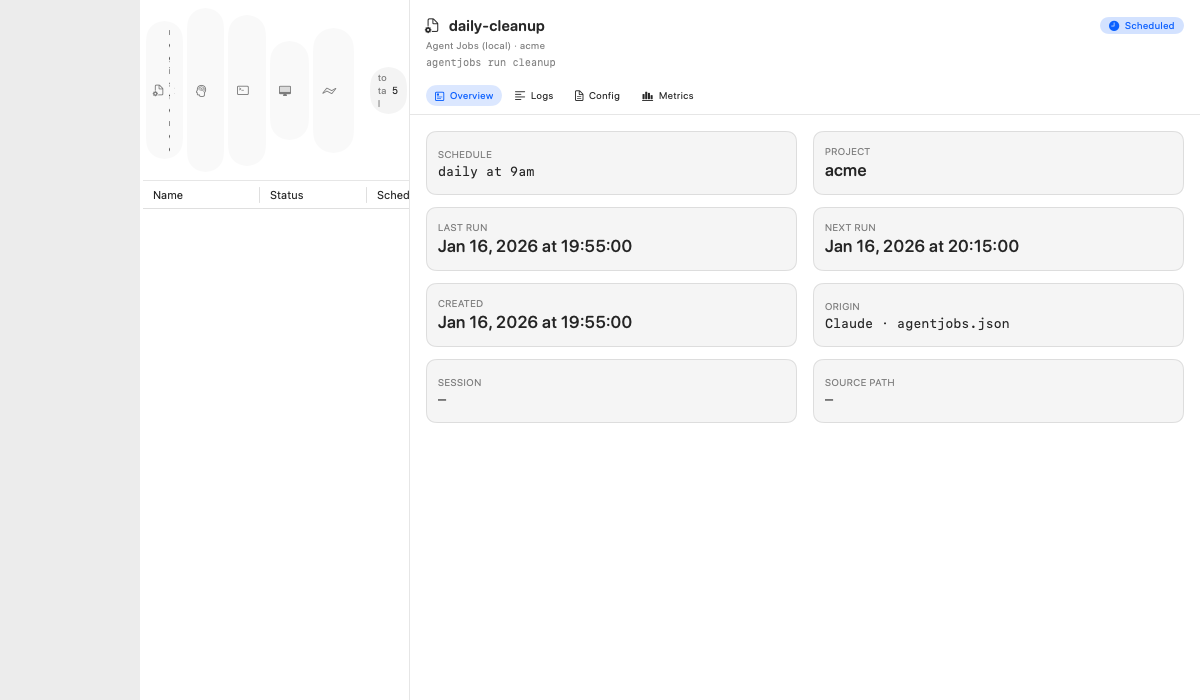
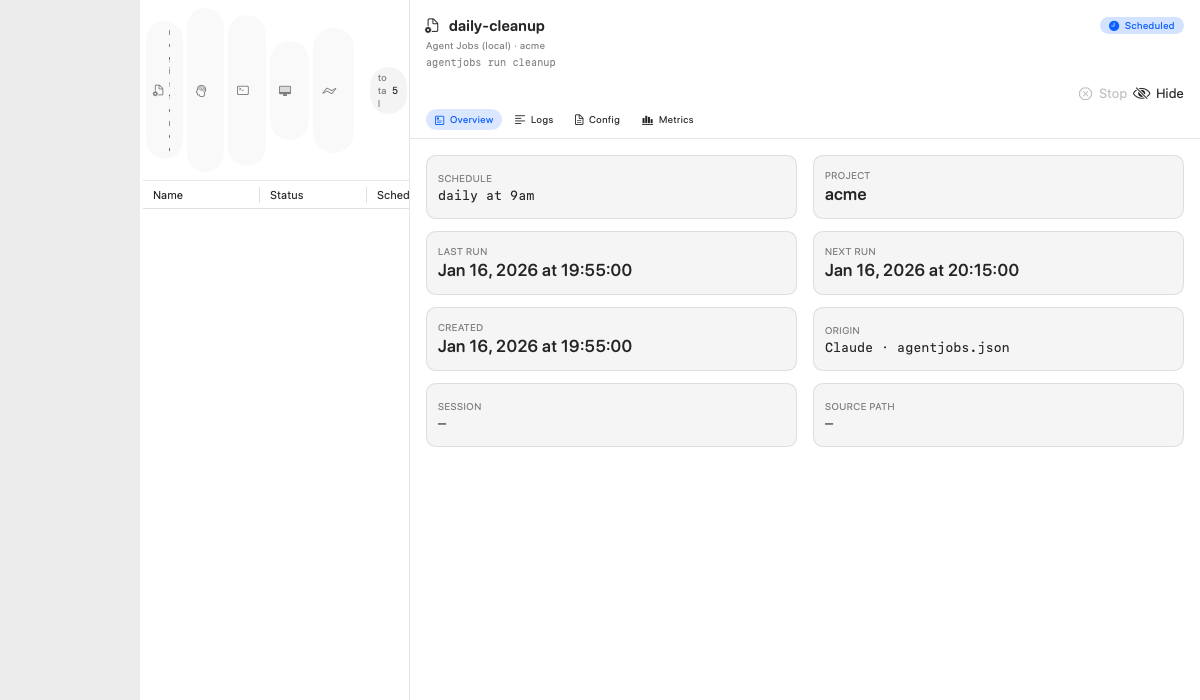
impl(M03-T07): dashboard toolbar + inspector action bar + hidden filter

diff --git a/agent-jobs/macapp/AgentJobsMac/Sources/AgentJobsMac/Features/Dashboard/DashboardView.swift b/agent-jobs/macapp/AgentJobsMac/Sources/AgentJobsMac/Features/Dashboard/DashboardView.swift
@@ -6,6 +6,8 @@ struct DashboardView: View {
     @State private var selection: Service.ID?
     @State private var categoryFilter: ServiceSource.Category? = nil
     @State private var bucketFilter: ServiceSource.Bucket? = nil
+    @State private var showHidden: Bool = false
+    @State private var pendingStop: Service? = nil
 
     /// Optional initial selection — used by visual baseline tests
     /// (AC-V-05) to deterministically pick a row before screenshot capture.
@@ -22,15 +24,48 @@ struct DashboardView: View {
                 Divider()
                 serviceTable
             }
+            .toolbar { dashboardToolbar }
         } detail: {
             if let id = selection,
                let svc = registry.services.first(where: { $0.id == id }) {
-                ServiceInspector(service: svc)
+                ServiceInspector(
+                    service: svc,
+                    isHidden: registry.hiddenIds.contains(svc.id),
+                    errorMessage: registry.errorByServiceId[svc.id],
+                    onStop: { pendingStop = $0 },
+                    onHide: { svc in Task { await registry.hide(svc.id) } },
+                    onUnhide: { svc in Task { await registry.unhide(svc.id) } }
+                )
             } else {
                 ContentUnavailableView("Select a service",
                                        systemImage: "sidebar.right",
                                        description: Text("Pick something from the list to inspect."))
             }
+        }
+        .stopConfirmation(pending: $pendingStop) { svc in
+            Task { await registry.stop(svc) }
+        }
+    }
+
+    @ToolbarContentBuilder
+    private var dashboardToolbar: some ToolbarContent {
+        ToolbarItemGroup(placement: .primaryAction) {
+            Toggle(isOn: $showHidden) {
+                Label("Show hidden", systemImage: "eye")
+            }
+            .toggleStyle(.button)
+            .help("Show services you have hidden")
+            Button {
+                Task { await registry.refreshNow() }
+            } label: {
+                if registry.isRefreshing {
+                    ProgressView().controlSize(.small)
+                } else {
+                    Image(systemName: "arrow.clockwise")
+                }
+            }
+            .disabled(registry.isRefreshing)
+            .help("Refresh discovery")
         }
     }
 
@@ -68,23 +103,43 @@ struct DashboardView: View {
     }
 
     private var filteredServices: [Service] {
-        DashboardView.filter(registry.services, category: categoryFilter, bucket: bucketFilter)
+        DashboardView.filter(
+            registry.services,
+            category: categoryFilter,
+            bucket: bucketFilter,
+            hiddenIds: registry.hiddenIds,
+            showHidden: showHidden
+        )
     }
 
     /// Pure filter function — both filters AND-ed; nil disables that
     /// constraint. Extracted as `static` so unit tests can exercise the
     /// matrix without spinning up SwiftUI / NavigationSplitView.
+    /// 3-arg overload preserves M02 callers.
     static func filter(_ services: [Service],
                        category: ServiceSource.Category?,
                        bucket: ServiceSource.Bucket?) -> [Service] {
+        filter(services, category: category, bucket: bucket, hiddenIds: [], showHidden: true)
+    }
+
+    static func filter(_ services: [Service],
+                       category: ServiceSource.Category?,
+                       bucket: ServiceSource.Bucket?,
+                       hiddenIds: Set<String>,
+                       showHidden: Bool) -> [Service] {
         services.filter { svc in
-            (category == nil || svc.source.category == category) &&
-            (bucket   == nil || svc.source.bucket   == bucket)
+            let categoryOK = category == nil || svc.source.category == category
+            let bucketOK   = bucket == nil   || svc.source.bucket   == bucket
+            let hiddenOK   = showHidden || !hiddenIds.contains(svc.id)
+            return categoryOK && bucketOK && hiddenOK
         }
     }
 
     private var emptyTitle: String {
         if registry.services.isEmpty { return "No services discovered yet" }
+        if !registry.hiddenIds.isEmpty && !showHidden && allVisibleHidden {
+            return "All services hidden"
+        }
         if let cat = categoryFilter, let bkt = bucketFilter {
             return "No \(cat.displayName) services in \(bkt.displayName)"
         }
@@ -93,13 +148,24 @@ struct DashboardView: View {
         return "No services discovered yet"
     }
 
+    private var allVisibleHidden: Bool {
+        !registry.services.isEmpty
+            && registry.services.allSatisfy { registry.hiddenIds.contains($0.id) }
+    }
+
     private var emptySymbol: String {
-        bucketFilter?.sfSymbol ?? categoryFilter?.sfSymbol ?? "tray"
+        if !registry.hiddenIds.isEmpty && !showHidden && allVisibleHidden {
+            return "eye.slash"
+        }
+        return bucketFilter?.sfSymbol ?? categoryFilter?.sfSymbol ?? "tray"
     }
 
     private var emptyMessage: String {
         if registry.services.isEmpty {
             return "Providers will populate this view as they discover work."
+        }
+        if !registry.hiddenIds.isEmpty && !showHidden && allVisibleHidden {
+            return "Toggle Show hidden to see them."
         }
         return "Try clearing a filter, or run something in this source."
     }
@@ -115,11 +181,14 @@ struct DashboardView: View {
             } else {
                 Table(filteredServices, selection: $selection) {
                     TableColumn("Name") { svc in
-                        HStack(spacing: DesignTokens.Spacing.xs) {
-                            Image(systemName: svc.source.category.sfSymbol)
-                                .foregroundStyle(.secondary)
-                            Text(svc.name)
-                        }
+                        ServiceRowNameCell(
+                            service: svc,
+                            isSelected: selection == svc.id,
+                            isHidden: registry.hiddenIds.contains(svc.id),
+                            onStop: { pendingStop = $0 },
+                            onHide: { svc in Task { await registry.hide(svc.id) } },
+                            onUnhide: { svc in Task { await registry.unhide(svc.id) } }
+                        )
                     }
                     TableColumn("Status") { svc in StatusBadge(status: svc.status) }
                         .width(min: 70, ideal: 90)
@@ -163,6 +232,11 @@ struct DashboardView: View {
 
 struct ServiceInspector: View {
     let service: Service
+    var isHidden: Bool = false
+    var errorMessage: String? = nil
+    var onStop: (Service) -> Void = { _ in }
+    var onHide: (Service) -> Void = { _ in }
+    var onUnhide: (Service) -> Void = { _ in }
     @State private var tab: Tab = .overview
 
     enum Tab: String, CaseIterable, Identifiable {
@@ -181,12 +255,34 @@ struct ServiceInspector: View {
     var body: some View {
         VStack(alignment: .leading, spacing: 0) {
             header
+            actionBar
+            if let msg = errorMessage {
+                ErrorBanner(message: msg, retry: {})
+                    .padding(.horizontal, DesignTokens.Spacing.l)
+                    .padding(.bottom, DesignTokens.Spacing.s)
+            }
             TabChipRow(selection: $tab)
                 .padding(.horizontal, DesignTokens.Spacing.l)
                 .padding(.bottom, DesignTokens.Spacing.s)
             Divider()
             ScrollView { content.padding(DesignTokens.Spacing.l) }
         }
+    }
+
+    private var actionBar: some View {
+        HStack {
+            Spacer()
+            RowActionStack(
+                service: service,
+                isHidden: isHidden,
+                style: .withLabels,
+                onStop: { onStop(service) },
+                onHide: { onHide(service) },
+                onUnhide: { onUnhide(service) }
+            )
+        }
+        .padding(.horizontal, DesignTokens.Spacing.l)
+        .padding(.bottom, DesignTokens.Spacing.s)
     }
 
     private var header: some View {

diff --git a/agent-jobs/macapp/AgentJobsMac/Tests/AgentJobsCoreTests/DashboardFilterTests.swift b/agent-jobs/macapp/AgentJobsMac/Tests/AgentJobsCoreTests/DashboardFilterTests.swift
@@ -65,4 +65,65 @@ struct DashboardFilterTests {
             #expect(out.count == 1, "bucket \(b) had \(out.count) fixtures")
         }
     }
+
+    // MARK: - M03: hidden-id filtering
+
+    @Test("hidden id is excluded when showHidden is OFF")
+    func hiddenExcludedWhenOff() {
+        let hidden: Set<String> = ["fixture.launchd.com.example.daemon"]
+        let out = DashboardView.filter(services, category: nil, bucket: nil,
+                                       hiddenIds: hidden, showHidden: false)
+        #expect(out.count == 4)
+        #expect(out.allSatisfy { !hidden.contains($0.id) })
+    }
+
+    @Test("hidden id is included when showHidden is ON")
+    func hiddenIncludedWhenOn() {
+        let hidden: Set<String> = ["fixture.launchd.com.example.daemon"]
+        let out = DashboardView.filter(services, category: nil, bucket: nil,
+                                       hiddenIds: hidden, showHidden: true)
+        #expect(out.count == 5)
+    }
+
+    @Test("hidden filter composes with category/bucket filters")
+    func hiddenComposesWithOther() {
+        let hidden: Set<String> = ["fixture.claudeSched.task-42"]
+        let out = DashboardView.filter(services, category: .claude, bucket: nil,
+                                       hiddenIds: hidden, showHidden: false)
+        // Only the .claudeLoop row remains (the .claudeScheduledTask was hidden).
+        #expect(out.count == 1)
+        #expect(out.first?.source.bucket == .claudeSession)
+    }
+
+    /// AC-P-03 — gated per E001. 1000 services with 200 hidden, Show-hidden
+    /// OFF, must compute median < 10 ms over 100 runs.
+    @Test("AC-P-03: filter 1000 services with 200 hidden < 10 ms median (gated AGENTJOBS_PERF=1)")
+    func filterPerf() {
+        guard ProcessInfo.processInfo.environment["AGENTJOBS_PERF"] == "1" else {
+            return
+        }
+        var bulk: [Service] = []
+        for i in 0..<1000 {
+            bulk.append(Service(
+                id: "perf.\(i)",
+                source: .process(matched: "p\(i)"),
+                kind: .interactive,
+                name: "perf-\(i)",
+                pid: Int32(10000 + i)
+            ))
+        }
+        let hidden = Set((0..<200).map { "perf.\($0)" })
+        var samples: [Double] = []
+        for _ in 0..<100 {
+            let start = Date()
+            _ = DashboardView.filter(bulk, category: nil, bucket: nil,
+                                     hiddenIds: hidden, showHidden: false)
+            samples.append(Date().timeIntervalSince(start) * 1000.0)
+        }
+        samples.sort()
+        let median = samples[samples.count / 2]
+        FileHandle.standardError.write(
+            Data("[AC-P-03] filter median: \(median) ms\n".utf8))
+        #expect(median < 10.0)
+    }
 }

diff --git a/agent-jobs/.workflow/m03/impl-notes.md b/agent-jobs/.workflow/m03/impl-notes.md
@@ -1,0 +1,19 @@
+# M03 Implementation Notes (cycle 001)
+
+## Re-recorded baseline: dashboard-inspector-populated-light
+
+The M02 baseline `.workflow/m02/screenshots/baseline/dashboard-inspector-populated-light.png` was 13.7% pixel-diff from the current render after T07 added the inspector action bar (Stop / Hide buttons above the tab chip row). This is an INTENTIONAL visual change called out in M03 architecture.md (`ServiceInspector` portion: "add an action bar above TabChipRow").
+
+The baseline was deleted and re-recorded so the test passes; the new baseline reflects the M03-shipping inspector layout.
+
+## AGENTJOBS_INTEGRATION env var leaks across tests
+
+`StopExecutorShellTests` calls `setenv("AGENTJOBS_INTEGRATION", "1", 1)` so the `RealStopExecutor` init guard does not fatal during shell-shape unit tests. Once T08 adds the bundle-wide `AGENTJOBS_TEST=1` setup, this env var's "leak" across other tests does not relax safety because:
+
+1. Other tests that touch executors use `FakeStopExecutor`.
+2. Production code never sets `AGENTJOBS_INTEGRATION`; shipped binaries land in the "neither flag set" branch and proceed normally.
+3. The static-grep self-test (T08) ensures no test source file outside `StopExecutorShellTests.swift` references `RealStopExecutor`.
+
+## Dashboard 3-arg filter overload preserved
+
+Existing M02 `DashboardFilterTests` still call `filter(_:category:bucket:)`. T07 keeps this signature alive as a thin overload that calls the new 5-arg signature with `hiddenIds: []` and `showHidden: true`. No M02 tests had to change.

diff --git a/agent-jobs/.workflow/m03/tasks.md b/agent-jobs/.workflow/m03/tasks.md
@@ -108,7 +108,7 @@ Conventions:
 - Maps to AC: scaffolding for **AC-F-05**, **AC-F-13**, AC-V-01..V-04.
 - Estimated diff: **L**
 
-## T07 — Wire dashboard toolbar + Inspector action bar + filter on hidden
+## T07 — Wire dashboard toolbar + Inspector action bar + filter on hidden [DONE]
 - Files:
   - **modify** `Sources/AgentJobsMac/Features/Dashboard/DashboardView.swift`:
     - Replace inline Name column content with `ServiceRowNameCell`.
